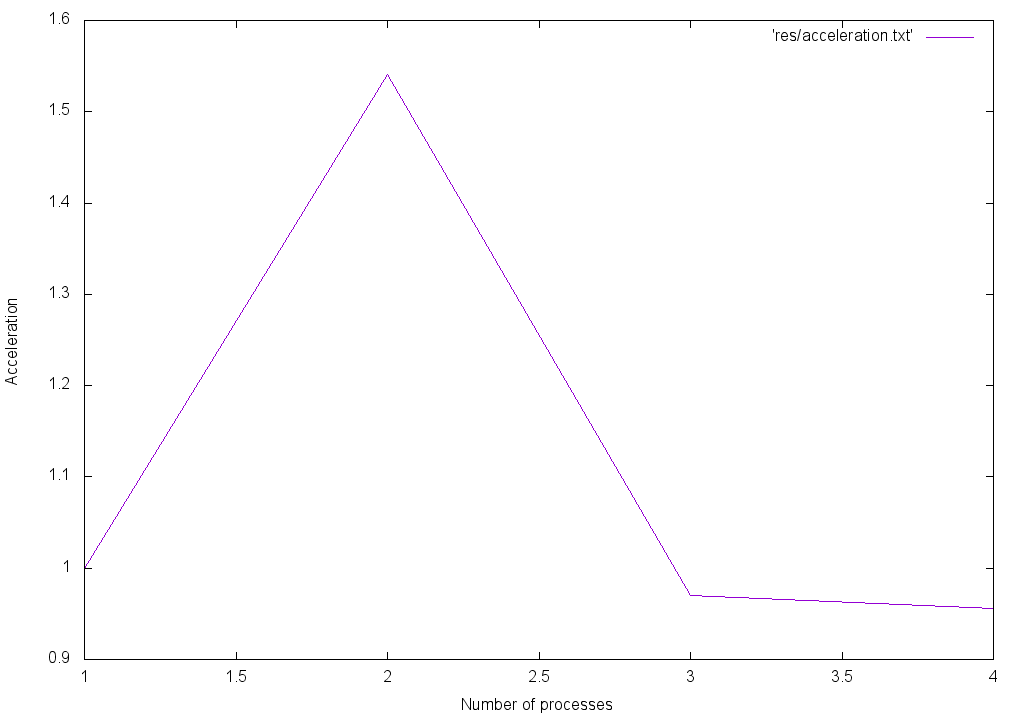
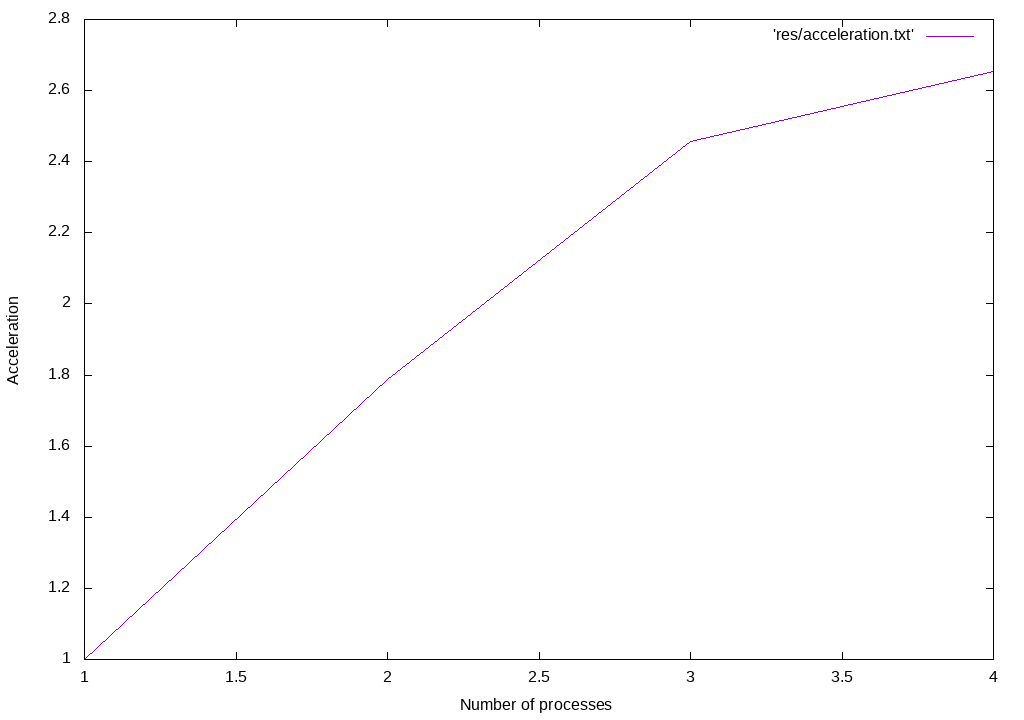
Uploaded working solution

diff --git a/OpenMP_heat/OmpLock/time.c b/OpenMP_heat/OmpLock/time.c
@@ -56,8 +56,8 @@ int main(int argc, char **argv)
 	int N = Time / tau;
 
     // Массивы температуры для момента времени n и n + 1 соответственно
-	double *u0 = (double*) malloc(sizeof(double) * M);
-	double *u1 = (double*) malloc(sizeof(double) * M);
+	double* u0 = (double*) malloc(sizeof(double) * M);
+	double* u1 = (double*) malloc(sizeof(double) * M);
 
     // Счетчики для циклов по времени и координате
 	size_t m, n;
@@ -73,7 +73,7 @@ int main(int argc, char **argv)
 	u0[M - 1] = u1[M - 1] = Temperature_2;
 
     // Массив индексов передаваемых точек
-	size_t *left_index = (size_t*) malloc(sizeof(size_t) * size + 1);
+	size_t* left_index = (size_t*) malloc(sizeof(size_t) * (size + 1));
 	left_index[0] = 1;
 	// Чтобы избежать костылей при передаче массивов 0-ому процессу,
 	// определяю правый конец последнего массива
@@ -84,31 +84,89 @@ int main(int argc, char **argv)
 		left_index[i] = left_index[i - 1] + (M / size) + ((i - 1) < ((M % size) - 2));
 	}
 
+	
+    // Создание замка
+    omp_lock_t* lock = (omp_lock_t*) malloc(sizeof(omp_lock_t) * 2 * size);
+    //Инициализация замка
+	for (size_t i = 0; i < 2 * size; ++i) {
+    	omp_init_lock(&lock[i]);
+	}
+	
+	// Вспомогательная переменная, показывающая кол-во процессов, закончивших данную итерацию цикла
+	size_t epoc = 0;
+	
 	double time = 0.0;
-
 	// Задаем кол-во процессов для следующего распараллеливания
 	omp_set_num_threads(size);
 	for(size_t j = 0; j < numexp; j++) {
 		// Начинаем отсчет времени
 		double start = omp_get_wtime();
 
-		for (n = 0; n < N; n++) {	 // Цикл по времени
-			// Явный метод
-			#pragma omp parallel
-            {
-                int id = omp_get_thread_num();
-				for (m = left_index[id]; m < left_index[id + 1]; m++) {
-					u1[m] = u0[m] + 0.3  * (u0[m - 1] - 2.0 * u0[m] + u0[m + 1]);
+		#pragma omp parallel private(n, m)
+		{
+			size_t id = omp_get_thread_num();
+			for (n = 0; n < N; n++) {	 // Цикл по времени
+				// Обнуляем глобальную эпоху
+				#pragma omp single
+				{
+					epoc = 0;
 				}
-            }
-			
-			// Обновление результатов
-			double *t = u0;
-			u0 = u1;
-			u1 = t;
+
+				// Явная четырехточечная схема
+				for (m = left_index[id]; m < left_index[id + 1]; ++m) {
+					
+					if ((m == left_index[id]) && (id != 0)) {
+						// Запоминаем боковой узел
+						omp_set_lock(&lock[id - 1 + size]);
+						double left = u0[left_index[id] - 1];
+						omp_unset_lock(&lock[id - 1 + size]);
+
+						// Проводим защищенно вычисления
+						omp_set_lock(&lock[id]);
+						u1[m] = u0[m] + 0.3 * (left - 2.0 * u0[m] + u0[m + 1]);
+						omp_unset_lock(&lock[id]);
+					}
+					
+					if ((m == left_index[id + 1] - 1) && (id != size - 1)) {
+						// Запоминаем боковой узел
+						omp_set_lock(&lock[id + 1]);
+						double right = u0[left_index[id + 1]];
+						omp_unset_lock(&lock[id + 1]);
+
+						// Проводим защищенно вычисления
+						omp_set_lock(&lock[id + size]);
+						u1[m] = u0[m] + 0.3 * (u0[m - 1] - 2.0 * u0[m] + right);
+						omp_unset_lock(&lock[id + size]);
+					}
+
+					u1[m] = u0[m] + 0.3 * (u0[m - 1] - 2.0 * u0[m] + u0[m + 1]);
+				}
+					
+				// Атомарно инкрементируем, показывая, что процесс закончил работу
+				#pragma omp atomic
+				epoc++;
+
+				#pragma omp single
+				{
+					// Не обновляем результат, пока не проработали все процессы
+					while (epoc < size) {
+						__asm volatile ("pause" ::: "memory");
+					}
+
+					// Обновление результатов
+					double *t = u0;
+					u0 = u1;
+					u1 = t;
+				}
+			}
 		}
+		
 		// Рассчитываем время работы программы
 		time += omp_get_wtime() - start;
+	}
+    // Удаление замка
+	for (size_t i = 0; i < 2 * size; ++i) {
+    	omp_destroy_lock(&lock[i]);
 	}
 	
 	printf("\n %d %lf\n", size, time / numexp);

diff --git a/OpenMP_heat/OmpLock/solution.c b/OpenMP_heat/OmpLock/solution.c
@@ -78,22 +78,81 @@ int main(int argc, char **argv)
 		left_index[i] = left_index[i - 1] + (M / size) + ((i - 1) < ((M % size) - 2));
 	}
 
+	// Создание замка
+    omp_lock_t* lock = (omp_lock_t*) malloc(sizeof(omp_lock_t) * 2 * size);
+    //Инициализация замка
+	for (size_t i = 0; i < 2 * size; ++i) {
+    	omp_init_lock(&lock[i]);
+	}	
+
+	// Вспомогательная переменная, показывающая кол-во процессов, закончивших данную итерацию цикла
+	size_t epoc = 0;
+
 	// Задаем кол-во процессов для следующего распараллеливания
 	omp_set_num_threads(size);
-	for (n = 0; n < N; n++) {	 // Цикл по времени
-		// Явный метод
-		#pragma omp parallel
-        {
-            int id = omp_get_thread_num();
-			for (m = left_index[id]; m < left_index[id + 1]; m++) {
-				u1[m] = u0[m] + 0.3  * (u0[m - 1] - 2.0 * u0[m] + u0[m + 1]);
+	#pragma omp parallel private(n, m)
+	{
+		size_t id = omp_get_thread_num();
+		// Цикл по времени
+		for (n = 0; n < N; n++) {
+			// Обнуляем глобальную эпоху
+			#pragma omp single
+			{
+				epoc = 0;
 			}
-        }
 
-		// Обновление результатов
-		double *t = u0;
-		u0 = u1;
-		u1 = t;
+			// Явная четырехточечная схема
+			for (m = left_index[id]; m < left_index[id + 1]; ++m) {
+				
+				if ((m == left_index[id]) && (id != 0)) {
+					// Запоминаем боковой узел
+					omp_set_lock(&lock[id - 1 + size]);
+					double left = u0[left_index[id] - 1];
+					omp_unset_lock(&lock[id - 1 + size]);
+
+					// Проводим защищенно вычисления
+					omp_set_lock(&lock[id]);
+					u1[m] = u0[m] + 0.3 * (left - 2.0 * u0[m] + u0[m + 1]);
+					omp_unset_lock(&lock[id]);
+				}
+				
+				if ((m == left_index[id + 1] - 1) && (id != size - 1)) {
+					// Запоминаем боковой узел
+					omp_set_lock(&lock[id + 1]);
+					double right = u0[left_index[id + 1]];
+					omp_unset_lock(&lock[id + 1]);
+
+					// Проводим защищенно вычисления
+					omp_set_lock(&lock[id + size]);
+					u1[m] = u0[m] + 0.3 * (u0[m - 1] - 2.0 * u0[m] + right);
+					omp_unset_lock(&lock[id + size]);
+				}
+
+				u1[m] = u0[m] + 0.3 * (u0[m - 1] - 2.0 * u0[m] + u0[m + 1]);
+			}
+				
+			// Атомарно инкрементируем, показывая, что процесс закончил работу
+			#pragma omp atomic
+			epoc++;
+
+			#pragma omp single
+			{
+				// Не обновляем результат, пока не проработали все процессы
+				while (epoc < size) {
+					__asm volatile ("pause" ::: "memory");
+				}
+
+				// Обновление результатов
+				double *t = u0;
+				u0 = u1;
+				u1 = t;
+			}
+		}
+	}
+		
+    // Удаление замка
+	for (size_t i = 0; i < 2 * size; ++i) {
+    	omp_destroy_lock(&lock[i]);
 	}
 	
 	// Вывод на экран
@@ -101,7 +160,7 @@ int main(int argc, char **argv)
 		printf("%lf %lf\n", m * h, u1[m]);
 	}
 	
-    //Освобождение памяти
+    // Освобождение памяти
 	free(u0);
 	free(u1);
 
